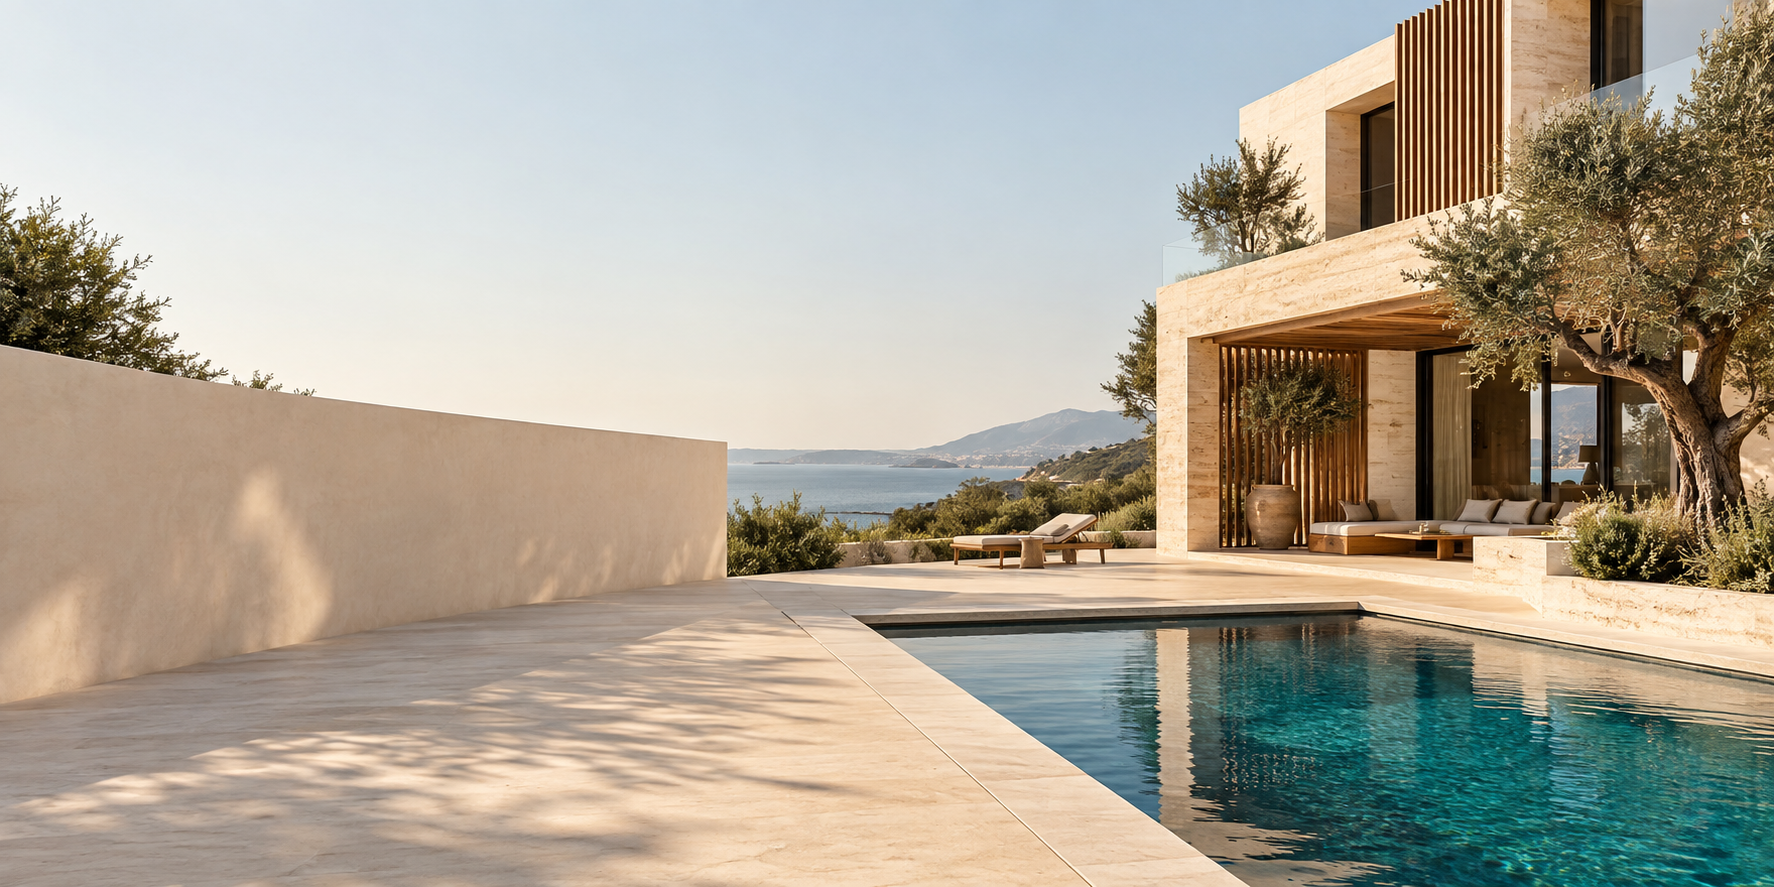
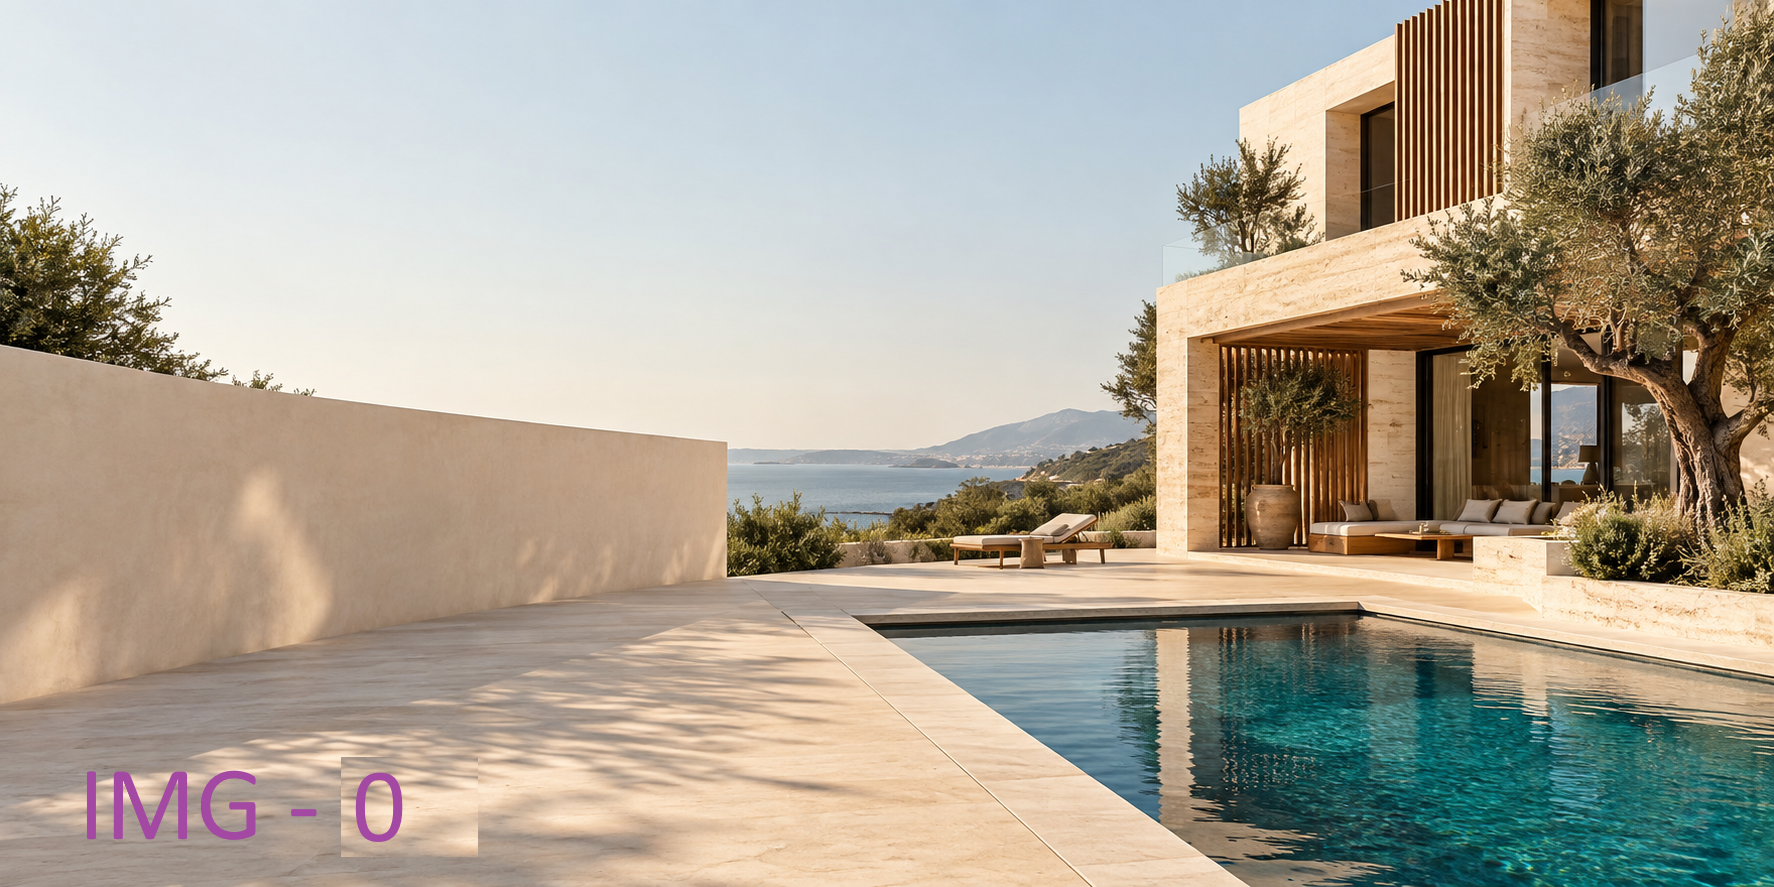
Test21.

Changed region(s): [[0.031, 0.8523, 0.279, 0.9741]]

diff --git a/css/homepage-desktop.css b/css/homepage-desktop.css
@@ -9,6 +9,70 @@
     display: contents;
 }
 
+/* Inactive slides stay hidden; controls remain absent on tablet and without JS. */
+.turkluxx-homepage [data-project-gallery] .turkluxx-project-image[hidden],
+.turkluxx-homepage [data-project-gallery] .turkluxx-gallery-controls[hidden] {
+    display: none;
+}
+
+@media (min-width: 1200px), (max-width: 767px) {
+    .turkluxx-homepage .turkluxx-gallery-controls {
+        position: absolute;
+        left: 50%;
+        bottom: 8px;
+        transform: translateX(-50%);
+        display: flex;
+        z-index: 1;
+    }
+    .turkluxx-homepage .turkluxx-gallery-dot {
+        display: grid;
+        place-items: center;
+        width: 16px;
+        height: 28px;
+        padding: 0;
+        border: 0;
+        background: none;
+        cursor: pointer;
+    }
+    .turkluxx-homepage .turkluxx-gallery-dot::before {
+        content: '';
+        width: 6px;
+        height: 6px;
+        border-radius: 50%;
+        background: #fffdf7;
+        opacity: .55;
+        box-shadow: 0 1px 3px #071e34cc;
+        transition: opacity 180ms ease, transform 180ms ease;
+    }
+    .turkluxx-homepage .turkluxx-gallery-dot[aria-pressed="true"]::before {
+        opacity: 1;
+        transform: scale(1.3);
+    }
+    .turkluxx-homepage .turkluxx-gallery-dot:focus-visible {
+        outline: 2px solid #f3d992;
+        outline-offset: 2px;
+        border-radius: 4px;
+    }
+    .turkluxx-homepage [data-project-gallery] {
+        touch-action: pan-y pinch-zoom;
+    }
+    .turkluxx-homepage [data-project-gallery] .turkluxx-project-image:not([hidden]) {
+        animation: turkluxx-gallery-reveal 220ms ease-out;
+    }
+}
+@keyframes turkluxx-gallery-reveal {
+    from { opacity: .65; }
+    to { opacity: 1; }
+}
+@media (prefers-reduced-motion: reduce) {
+    .turkluxx-homepage [data-project-gallery] .turkluxx-project-image {
+        animation: none;
+    }
+    .turkluxx-homepage .turkluxx-gallery-dot::before {
+        transition: none;
+    }
+}
+
 @media (max-width: 767px) {
     /* Use the loaded font weights without changing the citizenship card geometry. */
     .turkluxx-homepage .turkluxx-citizenship h2 {
@@ -215,8 +279,7 @@
        Every project image:
        - height = 100% of its own 50vh section
        - touches top and bottom of the section
-       - keeps the original 2:1 aspect ratio
-       - is not cropped
+       - fills half the row width with object-fit: cover
 
        Istanbul:
        [ IMAGE ][ TEXT ]
@@ -253,13 +316,7 @@
      *
      * Must occupy the ENTIRE section.
      *
-     * Image width is derived from its required height:
-     *
-     * image height = 50vh
-     * image ratio  = 2:1
-     * image width  = 100vh
-     *
-     * Remaining width belongs to the text.
+     * Each column occupies exactly half the row width.
      */
     .turkluxx-homepage .turkluxx-project .turkluxx-section-layout {
         display: grid;
@@ -272,9 +329,7 @@
 
         margin: 0;
 
-        grid-template-columns:
-            min(100vh, 58vw)
-            minmax(0, 1fr);
+        grid-template-columns: repeat(2, minmax(0, 1fr));
 
         gap: 0;
 
@@ -294,6 +349,8 @@
 
         min-width: 0;
         min-height: 0;
+        max-height: none;
+        aspect-ratio: auto;
 
         margin: 0;
         padding: 0;
@@ -309,14 +366,11 @@
      *
      * Fill the complete height of the 50vh section.
      *
-     * Source image is exactly 2:1.
-     *
-     * The media column is dimensioned to the same ratio,
-     * therefore contain does NOT create top/bottom whitespace
-     * and does NOT crop the image.
+     * Cover the shared image area regardless of each source image's ratio.
      */
     .turkluxx-homepage .turkluxx-project .turkluxx-project-image {
-        position: static;
+        position: absolute;
+        inset: 0;
 
         display: block;
 
@@ -330,7 +384,7 @@
 
         aspect-ratio: auto;
 
-        object-fit: contain;
+        object-fit: cover;
         object-position: center;
 
         border: 0;
@@ -380,9 +434,7 @@
     .turkluxx-homepage
     .turkluxx-project--reverse
     .turkluxx-section-layout {
-        grid-template-columns:
-            minmax(0, 1fr)
-            min(100vh, 58vw);
+        grid-template-columns: repeat(2, minmax(0, 1fr));
     }
 
     .turkluxx-homepage

diff --git a/index.html b/index.html
@@ -246,10 +246,20 @@
     </section>
     <section class="turkluxx-project" aria-labelledby="turkluxx-project-heading">
         <div class="turkluxx-section-layout">
-            <div class="turkluxx-project-media">
+            <div class="turkluxx-project-media" data-project-gallery aria-label="Rengi Istanbul images">
                 <img class="turkluxx-project-image" src="assets/turkluxx-villa.png"
                      alt="Illustrative contemporary Mediterranean villa with warm stone architecture and a swimming pool"
                      width="1774" height="887" loading="lazy">
+                <!-- Gallery slides: replace each src independently. Slide 1 is the image above. -->
+                <img class="turkluxx-project-image" src="assets/turkluxx-villa-2.png" alt="Rengi Istanbul — view 2" width="1774" height="887" loading="lazy" hidden>
+                <img class="turkluxx-project-image" src="assets/turkluxx-villa-3.png" alt="Rengi Istanbul — view 3" width="1774" height="887" loading="lazy" hidden>
+                <img class="turkluxx-project-image" src="assets/turkluxx-villa-4.png" alt="Rengi Istanbul — view 4" width="1774" height="887" loading="lazy" hidden>
+                <div class="turkluxx-gallery-controls" hidden>
+                    <button type="button" class="turkluxx-gallery-dot" aria-label="Show Istanbul image 1" aria-pressed="true"></button>
+                    <button type="button" class="turkluxx-gallery-dot" aria-label="Show Istanbul image 2" aria-pressed="false"></button>
+                    <button type="button" class="turkluxx-gallery-dot" aria-label="Show Istanbul image 3" aria-pressed="false"></button>
+                    <button type="button" class="turkluxx-gallery-dot" aria-label="Show Istanbul image 4" aria-pressed="false"></button>
+                </div>
             </div>
             <div class="turkluxx-section-copy">
                 <h2 class="turkluxx-section-heading turkluxx-project-heading" id="turkluxx-project-heading">Rengi
@@ -269,7 +279,7 @@
     </section>
     <section class="turkluxx-project turkluxx-project--reverse" aria-labelledby="turkluxx-antalya-heading">
         <div class="turkluxx-section-layout">
-            <div class="turkluxx-project-media">
+            <div class="turkluxx-project-media" data-project-gallery aria-label="Rengi Antalya images">
                 <img
                         class="turkluxx-project-image"
                         src="assets/turkluxx-villa.png"
@@ -277,6 +287,16 @@
                         width="1774"
                         height="887"
                         loading="lazy">
+                <!-- Gallery slides: replace each src independently. Slide 1 is the image above. -->
+                <img class="turkluxx-project-image" src="assets/turkluxx-villa-2.png" alt="Rengi Antalya — view 2" width="1774" height="887" loading="lazy" hidden>
+                <img class="turkluxx-project-image" src="assets/turkluxx-villa-3.png" alt="Rengi Antalya — view 3" width="1774" height="887" loading="lazy" hidden>
+                <img class="turkluxx-project-image" src="assets/turkluxx-villa-4.png" alt="Rengi Antalya — view 4" width="1774" height="887" loading="lazy" hidden>
+                <div class="turkluxx-gallery-controls" hidden>
+                    <button type="button" class="turkluxx-gallery-dot" aria-label="Show Antalya image 1" aria-pressed="true"></button>
+                    <button type="button" class="turkluxx-gallery-dot" aria-label="Show Antalya image 2" aria-pressed="false"></button>
+                    <button type="button" class="turkluxx-gallery-dot" aria-label="Show Antalya image 3" aria-pressed="false"></button>
+                    <button type="button" class="turkluxx-gallery-dot" aria-label="Show Antalya image 4" aria-pressed="false"></button>
+                </div>
             </div>
             <div class="turkluxx-section-copy">
                 <h2
@@ -407,5 +427,6 @@
     </svg>
 </button>
 <script src="js/homepage-navigation.js" defer></script>
+<script src="js/homepage-galleries.js" defer></script>
 </body>
 </html>

diff --git a/js/homepage-galleries.js b/js/homepage-galleries.js
@@ -1,0 +1,55 @@
+(() => {
+    'use strict';
+    if (!document.body.classList.contains('turkluxx-homepage')) return;
+    const enabled = window.matchMedia('(min-width: 1200px), (max-width: 767px)');
+    const galleries = [...document.querySelectorAll('[data-project-gallery]')].map(container => {
+        const slides = [...container.querySelectorAll('.turkluxx-project-image')];
+        const controls = container.querySelector('.turkluxx-gallery-controls');
+        const dots = [...controls.querySelectorAll('.turkluxx-gallery-dot')];
+        let index = 0;
+        let listeners;
+
+        function show(next) {
+            index = (next + slides.length) % slides.length;
+            slides.forEach((slide, i) => { slide.hidden = i !== index; });
+            dots.forEach((dot, i) => dot.setAttribute('aria-pressed', String(i === index)));
+        }
+
+        return () => {
+            listeners?.abort();
+            controls.hidden = !enabled.matches;
+            show(0);
+            if (!enabled.matches) return;
+            listeners = new AbortController();
+            const options = { signal: listeners.signal };
+            dots.forEach((dot, i) => dot.addEventListener('click', () => show(i), options));
+
+            let gesture;
+            container.addEventListener('pointerdown', event => {
+                if (!event.isPrimary || event.pointerType === 'mouse' || event.target.closest('button')) {
+                    gesture = null;
+                    return;
+                }
+                gesture = { id: event.pointerId, x: event.clientX, y: event.clientY };
+            }, options);
+            container.addEventListener('pointermove', event => {
+                if (!gesture || gesture.id !== event.pointerId) return;
+                const dx = Math.abs(event.clientX - gesture.x);
+                const dy = Math.abs(event.clientY - gesture.y);
+                // Once the gesture becomes vertical, leave it entirely to page scrolling.
+                if (dy > 10 && dy >= dx) gesture = null;
+            }, options);
+            container.addEventListener('pointerup', event => {
+                if (!gesture || gesture.id !== event.pointerId) return;
+                const dx = event.clientX - gesture.x;
+                const dy = event.clientY - gesture.y;
+                gesture = null;
+                if (Math.abs(dx) >= 40 && Math.abs(dx) > Math.abs(dy) * 1.5) show(index + (dx < 0 ? 1 : -1));
+            }, options);
+            container.addEventListener('pointercancel', () => { gesture = null; }, options);
+        };
+    });
+    const sync = () => galleries.forEach(update => update());
+    enabled.addEventListener('change', sync);
+    sync();
+})();
